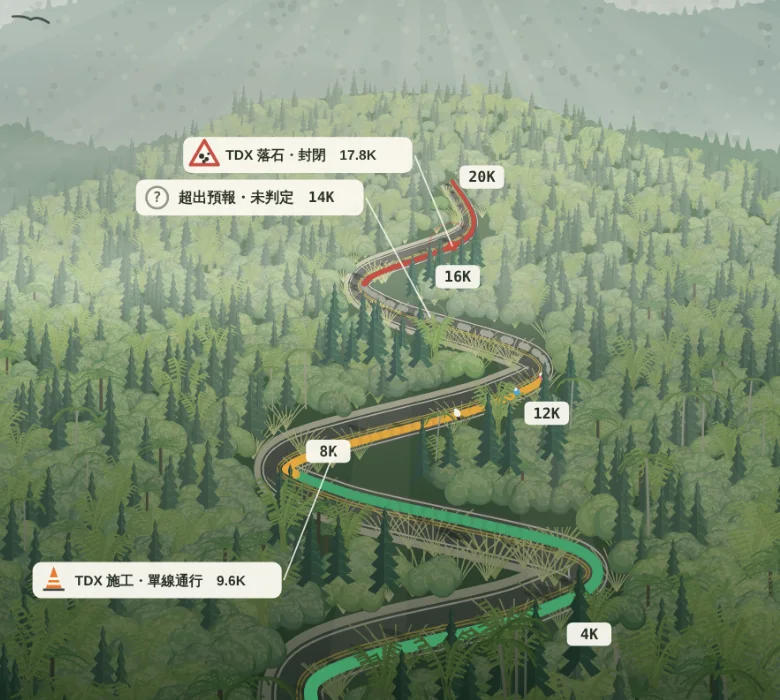
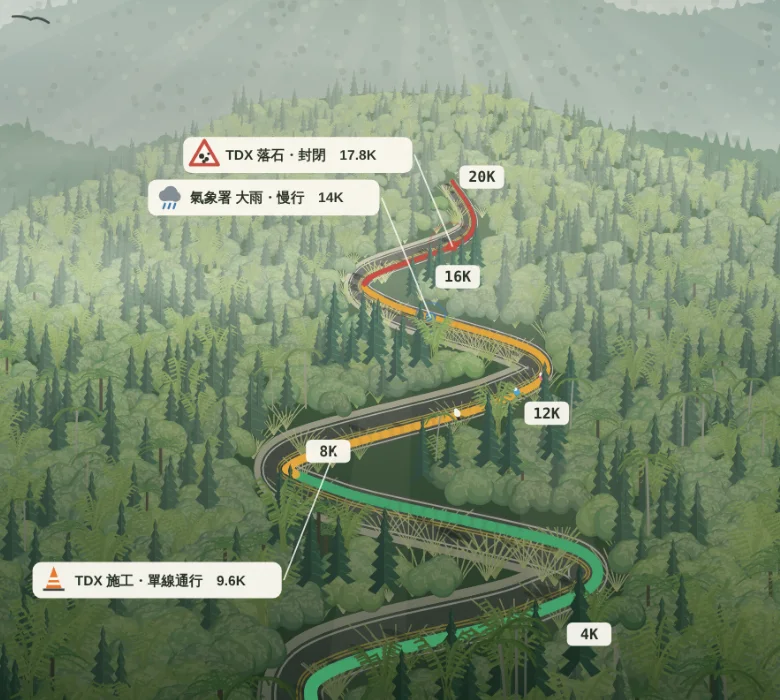
fix(web): 14K 示警卡改為氣象署大雨範例；網站描述拿掉「缺資料，不說安全」
- 14K 示警卡改成「氣象署 大雨・慢行」，新增雨雲圖示（取代灰色問號），12–16K 色帶由未判定改為慢行
- layout.tsx（description、OpenGraph）與 manifest.json 移除「缺資料，不說安全。」
- 手機靜態圖與 alt 同步

diff --git a/strava-route-system/apps/web/src/components/auth/dawn-scene.ts b/strava-route-system/apps/web/src/components/auth/dawn-scene.ts
@@ -16,7 +16,7 @@ type Level = "go" | "slow" | "unknown" | "stop";
 
 const LEVEL_COLOR: Record<Level, string> = { go: "#3E9F69", slow: "#e3a53a", stop: "#c4483f", unknown: "#a9ada4" };
 
-type EventKind = "work" | "nodata" | "rock";
+type EventKind = "work" | "rain" | "rock";
 /**
  * 場景參數與 scripts/landing-scene/scene.html（產生靜態圖）共用同一份 JSON，改這裡兩邊都會跟著變；
  * 改完路線或標示位置要重跑 render.mjs 更新手機靜態圖。
@@ -26,7 +26,7 @@ const P = params as unknown as {
   routeKm: number;
   /** 0–20K 每 4K 一段的判定（示意） */
   levels: Level[];
-  /** TDX 示警與未判定路段的位置（示意），side 為標示卡在路的哪一側，dx、dy 為水平、垂直位移 */
+  /** TDX、氣象署示警的位置（示意），side 為標示卡在路的哪一側，dx、dy 為水平、垂直位移 */
   events: { km: number; kind: EventKind; label: string; side: 1 | -1; dx?: number; dy: number }[];
   /** 個別里程牌的位移 [dx, dy]，避免被登入卡蓋住 */
   mileLabelOffset: Record<string, Pt>;
@@ -37,7 +37,7 @@ const P = params as unknown as {
 const LEVELS = P.levels;
 const ROUTE_KM = P.routeKm;
 const EVENTS = P.events;
-const EVENT_RGB: Record<EventKind, string> = { rock: "196,72,63", work: "232,116,44", nodata: "143,148,140" };
+const EVENT_RGB: Record<EventKind, string> = { rock: "196,72,63", work: "232,116,44", rain: "58,120,184" };
 const ROAD_CTRL = P.roadCtrl;
 const SUN: Pt = [DESIGN_W * P.sun[0], P.sun[1]];
 
@@ -283,7 +283,7 @@ export function drawDawnFrame(ctx: CanvasRenderingContext2D, img: DawnImages, g:
     ctx.beginPath();
     ctx.roundRect(bx, ly - 17, tw + 74, 34, 8);
     ctx.fill();
-    drawSign(ctx, e.kind, bx + 20, ly, 22, fonts.mono);
+    drawSign(ctx, e.kind, bx + 20, ly, 22);
     ctx.fillStyle = "#1f2b20";
     ctx.textAlign = "left";
     ctx.textBaseline = "middle";
@@ -310,7 +310,7 @@ function ellipseFill(ctx: CanvasRenderingContext2D, x: number, y: number, sxScal
   ctx.restore();
 }
 
-function drawSign(ctx: CanvasRenderingContext2D, kind: EventKind, x: number, y: number, s: number, mono: string) {
+function drawSign(ctx: CanvasRenderingContext2D, kind: EventKind, x: number, y: number, s: number) {
   if (kind === "rock") {
     // 紅框三角警告牌＋落石
     ctx.fillStyle = "#fbfaf2";
@@ -345,18 +345,22 @@ function drawSign(ctx: CanvasRenderingContext2D, kind: EventKind, x: number, y: 
     ctx.fillStyle = "#3b3f42";
     ctx.fillRect(x - s * 0.46, y + s * 0.36, s * 0.92, s * 0.1);
   } else {
-    // 未判定：灰色問號
-    ctx.fillStyle = "#fbfaf2";
-    ctx.strokeStyle = "#8f948c";
-    ctx.lineWidth = s * 0.1;
-    ctx.beginPath();
-    ctx.arc(x, y, s * 0.46, 0, Math.PI * 2);
-    ctx.fill();
-    ctx.stroke();
-    ctx.fillStyle = "#5b6058";
-    ctx.font = `800 ${s * 0.62}px ${mono}`;
-    ctx.textAlign = "center";
-    ctx.textBaseline = "middle";
-    ctx.fillText("?", x, y + s * 0.03);
+    // 大雨：雲朵＋雨滴
+    ctx.fillStyle = "#7d8a94";
+    ([[-0.2, -0.08, 0.24], [0.06, -0.2, 0.3], [0.28, -0.04, 0.22]] as const).forEach(([dx, dy, r]) => {
+      ctx.beginPath();
+      ctx.arc(x + dx * s, y + dy * s, r * s, 0, Math.PI * 2);
+      ctx.fill();
+    });
+    ctx.fillRect(x - s * 0.2, y - s * 0.08, s * 0.48, s * 0.22);
+    ctx.strokeStyle = "#3a78b8";
+    ctx.lineWidth = s * 0.09;
+    ctx.lineCap = "round";
+    ([-0.18, 0.04, 0.26] as const).forEach((dx) => {
+      ctx.beginPath();
+      ctx.moveTo(x + dx * s, y + s * 0.26);
+      ctx.lineTo(x + (dx - 0.07) * s, y + s * 0.46);
+      ctx.stroke();
+    });
   }
 }

diff --git a/strava-route-system/apps/web/scripts/landing-scene/scene.html b/strava-route-system/apps/web/scripts/landing-scene/scene.html
@@ -236,9 +236,11 @@
       ctx.fillStyle = "#e8742c"; ctx.beginPath(); ctx.moveTo(x, y - s * 0.6); ctx.lineTo(x + s * 0.34, y + s * 0.36); ctx.lineTo(x - s * 0.34, y + s * 0.36); ctx.closePath(); ctx.fill();
       ctx.fillStyle = "#fbfaf2"; ctx.fillRect(x - s * 0.2, y - s * 0.12, s * 0.4, s * 0.12); ctx.fillRect(x - s * 0.27, y + s * 0.1, s * 0.54, s * 0.11);
       ctx.fillStyle = "#3b3f42"; ctx.fillRect(x - s * 0.46, y + s * 0.36, s * 0.92, s * 0.1);
-    } else { // 未判定：灰色問號
-      ctx.fillStyle = "#fbfaf2"; ctx.strokeStyle = "#8f948c"; ctx.lineWidth = s * 0.1; ctx.beginPath(); ctx.arc(x, y, s * 0.46, 0, Math.PI * 2); ctx.fill(); ctx.stroke();
-      ctx.fillStyle = "#5b6058"; ctx.font = `800 ${s * 0.62}px 'JetBrains Mono', monospace`; ctx.textAlign = "center"; ctx.textBaseline = "middle"; ctx.fillText("?", x, y + s * 0.03);
+    } else { // 大雨：雲朵＋雨滴
+      ctx.fillStyle = "#7d8a94"; [[-0.2, -0.08, 0.24], [0.06, -0.2, 0.3], [0.28, -0.04, 0.22]].forEach(([dx, dy, r]) => { ctx.beginPath(); ctx.arc(x + dx * s, y + dy * s, r * s, 0, Math.PI * 2); ctx.fill(); });
+      ctx.fillRect(x - s * 0.2, y - s * 0.08, s * 0.48, s * 0.22);
+      ctx.strokeStyle = "#3a78b8"; ctx.lineWidth = s * 0.09; ctx.lineCap = "round";
+      [-0.18, 0.04, 0.26].forEach((dx) => { ctx.beginPath(); ctx.moveTo(x + dx * s, y + s * 0.26); ctx.lineTo(x + (dx - 0.07) * s, y + s * 0.46); ctx.stroke(); });
     }
   }
 
@@ -299,7 +301,7 @@
     }
     ctx.globalAlpha = 1;
     const at = (km) => Math.min(S.length - 1, Math.round((km / ROUTE_KM) * (S.length - 1)));
-    const evCol = (e) => (e.kind === "rock" ? "196,72,63" : e.kind === "work" ? "232,116,44" : "143,148,140");
+    const evCol = (e) => (e.kind === "rock" ? "196,72,63" : e.kind === "work" ? "232,116,44" : "58,120,184");
     const evPos = (j) => { const p = S[j], r = rw(p[1]); return [p[0] + N[j][0] * r * 0.22, p[1] + N[j][1] * r * 0.22, r]; };
     // 示警點（在路面上，會被前景樹擋住）
     EVENTS.forEach((e, n) => {

diff --git a/strava-route-system/apps/web/src/app/layout.tsx b/strava-route-system/apps/web/src/app/layout.tsx
@@ -27,7 +27,7 @@ const baseUrl = process.env.NEXT_PUBLIC_APP_URL ?? "https://dawnline-tw.vercel.a
 export const metadata: Metadata = {
   metadataBase: new URL(baseUrl),
   title: { default: "曉行", template: "%s｜曉行" },
-  description: "騎車、跑步、健行出發前，上傳 GPX，整合氣象署預報、TDX 路況與沿線 CCTV，逐公里標出走、慢、停、未判定。缺資料，不說安全。",
+  description: "騎車、跑步、健行出發前，上傳 GPX，整合氣象署預報、TDX 路況與沿線 CCTV，逐公里標出走、慢、停、未判定。",
   manifest: "/manifest.json",
   appleWebApp: {
     title: "曉行",
@@ -36,7 +36,7 @@ export const metadata: Metadata = {
   },
   openGraph: {
     title: "曉行 Dawnline｜好天氣出發，壞路況繞開",
-    description: "騎車、跑步、健行出發前，上傳 GPX，整合氣象署預報、TDX 路況與沿線 CCTV，逐公里標出走、慢、停、未判定。缺資料，不說安全。",
+    description: "騎車、跑步、健行出發前，上傳 GPX，整合氣象署預報、TDX 路況與沿線 CCTV，逐公里標出走、慢、停、未判定。",
   },
 };
 

diff --git a/strava-route-system/apps/web/src/components/auth/login-view.tsx b/strava-route-system/apps/web/src/components/auth/login-view.tsx
@@ -133,7 +133,7 @@ export function LoginView({ featured }: { featured: ReactNode }) {
         {/* eslint-disable-next-line @next/next/no-img-element */}
         <img
           src="/landing/dawn-mobile.webp"
-          alt="山路逐段判定示意：9.6K 施工、14K 未判定、17.8K 落石"
+          alt="山路逐段判定示意：9.6K 施工、14K 大雨、17.8K 落石"
           width={780}
           height={700}
           loading="lazy"
